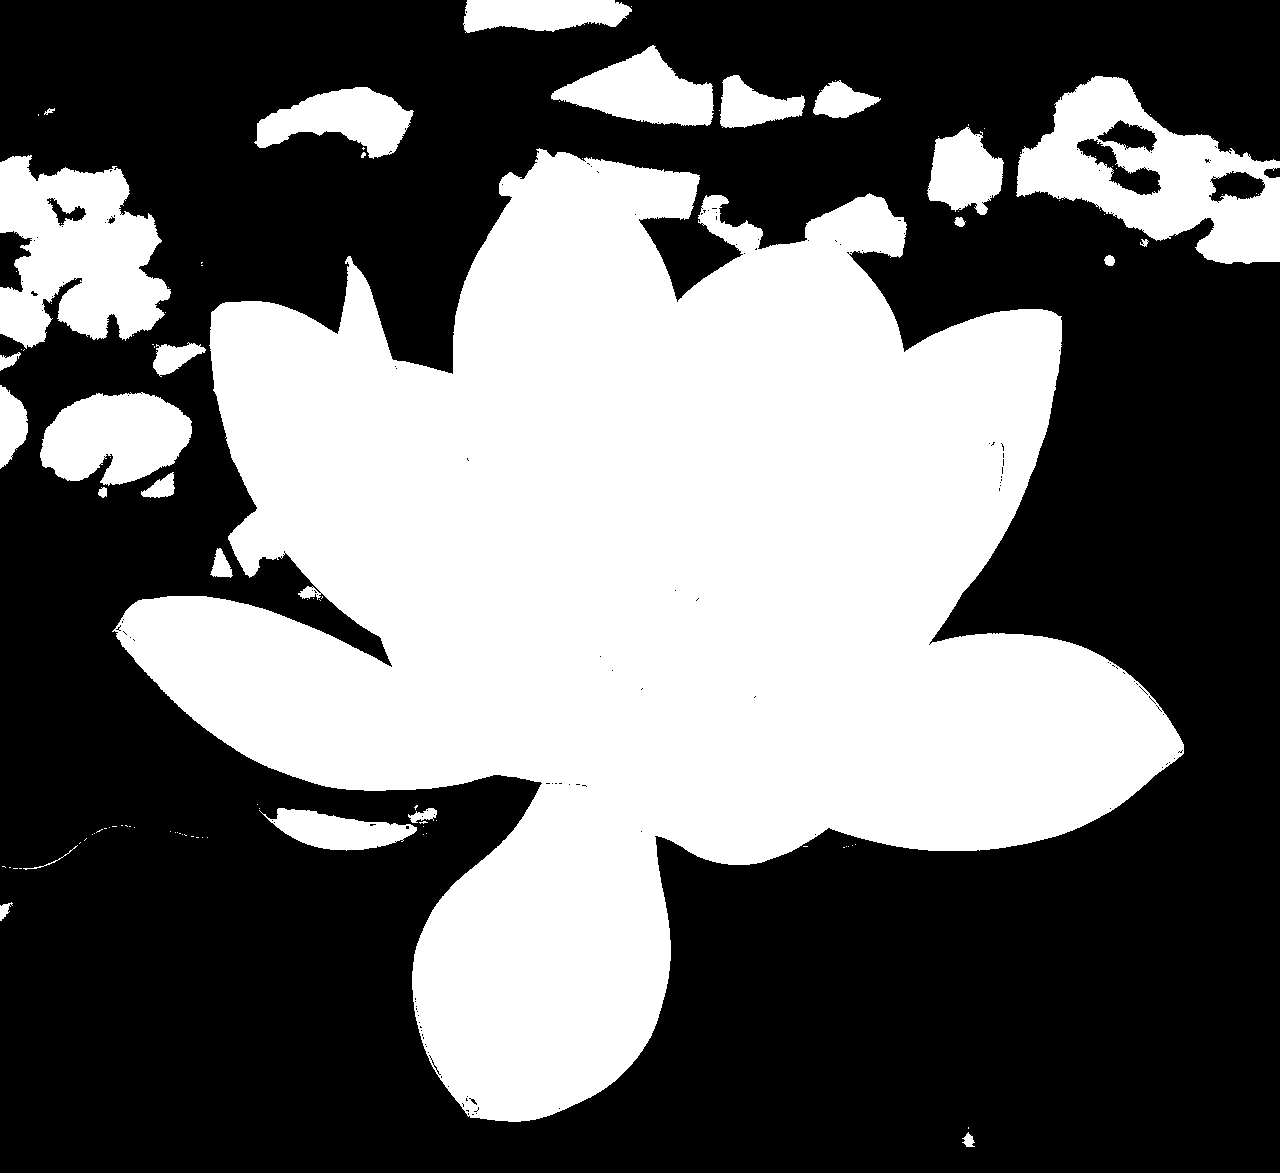
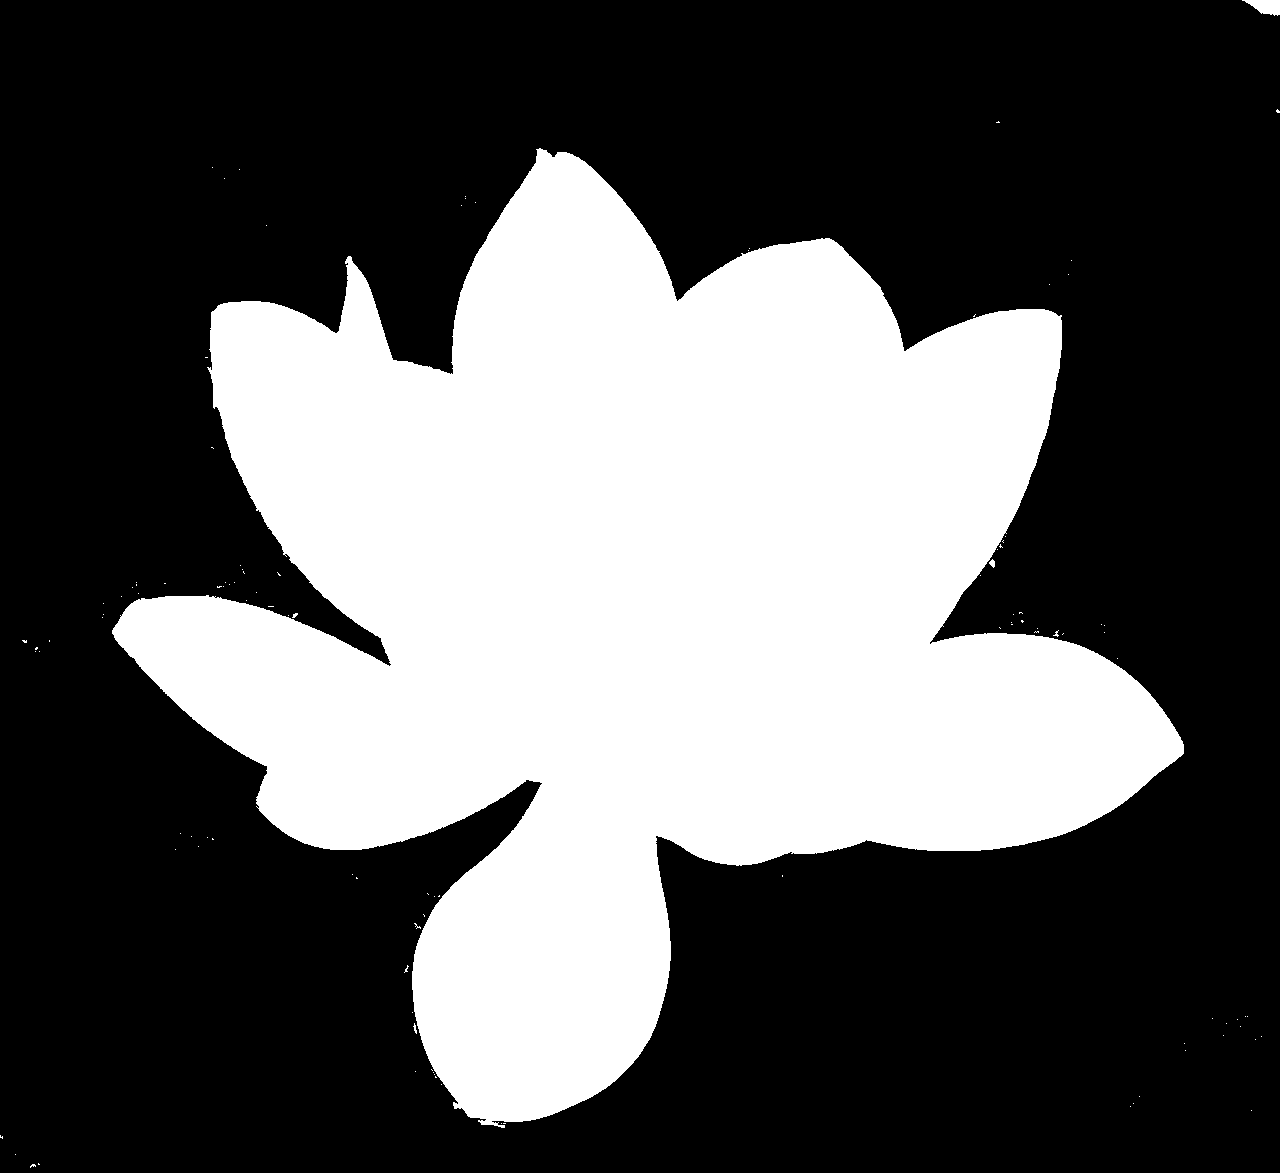
Corrected Q5 and discussed Q4

diff --git a/q5.py b/q5.py
@@ -4,17 +4,6 @@ import numpy as np
 import cv2
 import matplotlib.pyplot as plt
 
-def mean_shift_segmentation(img, spatial_radius=15, color_radius=30):
-    img_bgr = cv2.cvtColor(img, cv2.COLOR_RGB2BGR)
-    segmented_bgr = cv2.pyrMeanShiftFiltering(
-        img_bgr,
-        sp=spatial_radius,
-        sr=color_radius,
-        maxLevel=1
-    )
-    segmented_rgb = cv2.cvtColor(segmented_bgr, cv2.COLOR_BGR2RGB)
-    return segmented_rgb
-
 def get_manual_mask(img):
     h, w = img.shape[:2]
     mask = np.zeros((h, w), dtype=np.uint8)
@@ -91,12 +80,13 @@ output_dir="./output_q5"
 os.makedirs(output_dir, exist_ok=True)
 
 images_config = [
-    {"filename": "deep.png"},
-    {"filename": "lotus.png"},
-    {"filename": "marigold.png"}
+    {"filename": "deep"},
+    {"filename": "lotus"},
+    {"filename": "marigold"}
 ]
 for cfg in images_config:
-    in_path = os.path.join(input_dir, cfg["filename"])
+    in_path = os.path.join(input_dir, cfg["filename"]+".png")
+    mask_path = os.path.join(input_dir, cfg["filename"]+"_mask.png")
     
     if not os.path.exists(in_path):
         print(f"Skipping {in_path}: File not found.")
@@ -104,27 +94,13 @@ for cfg in images_config:
     print(f"Processing {cfg['filename']}...")
     
     img_rgb = iio.imread(in_path)        
-    segmented_img = mean_shift_segmentation(
-        img_rgb,
-        spatial_radius=15,
-        color_radius=30
-    )
-    border_width = 10
+    segmented_img = iio.imread(mask_path)
 
-    border_pixels = np.concatenate([
-        segmented_img[:border_width, :, :].reshape(-1, 3),
-        segmented_img[-border_width:, :, :].reshape(-1, 3),
-        segmented_img[:, :border_width, :].reshape(-1, 3),
-        segmented_img[:, -border_width:, :].reshape(-1, 3)
-    ])
-    background_color = np.mean(border_pixels, axis=0)
+    if segmented_img.ndim == 3:
+        segmented_img = np.max(segmented_img, axis=2)
 
-    color_distance = np.linalg.norm(
-        segmented_img.astype(np.float32) -
-        background_color.astype(np.float32),
-        axis=2
-    )
-    fg_mask = (color_distance > 100).astype(np.uint8)
+    fg_mask = (segmented_img > 0).astype(np.uint8)
+
     print(
         f"{cfg['filename']}: "
         f"foreground = {np.mean(fg_mask)*100:.2f}%"

diff --git a/q2.py b/q2.py
@@ -63,6 +63,7 @@ def compute_masked_ncc_channel_fast(image_channel, template_channel, mask):
     corr = fftconvolve(img, np.flip(tmpl_norm), mode='valid')
     with np.errstate(divide='ignore', invalid='ignore'):
         ncc_map = np.where(patch_rms > 0, corr / patch_rms, 0.0)
+    #To be changed, to if-else.
     return ncc_map
 
 def resize_image(img, new_shape):
